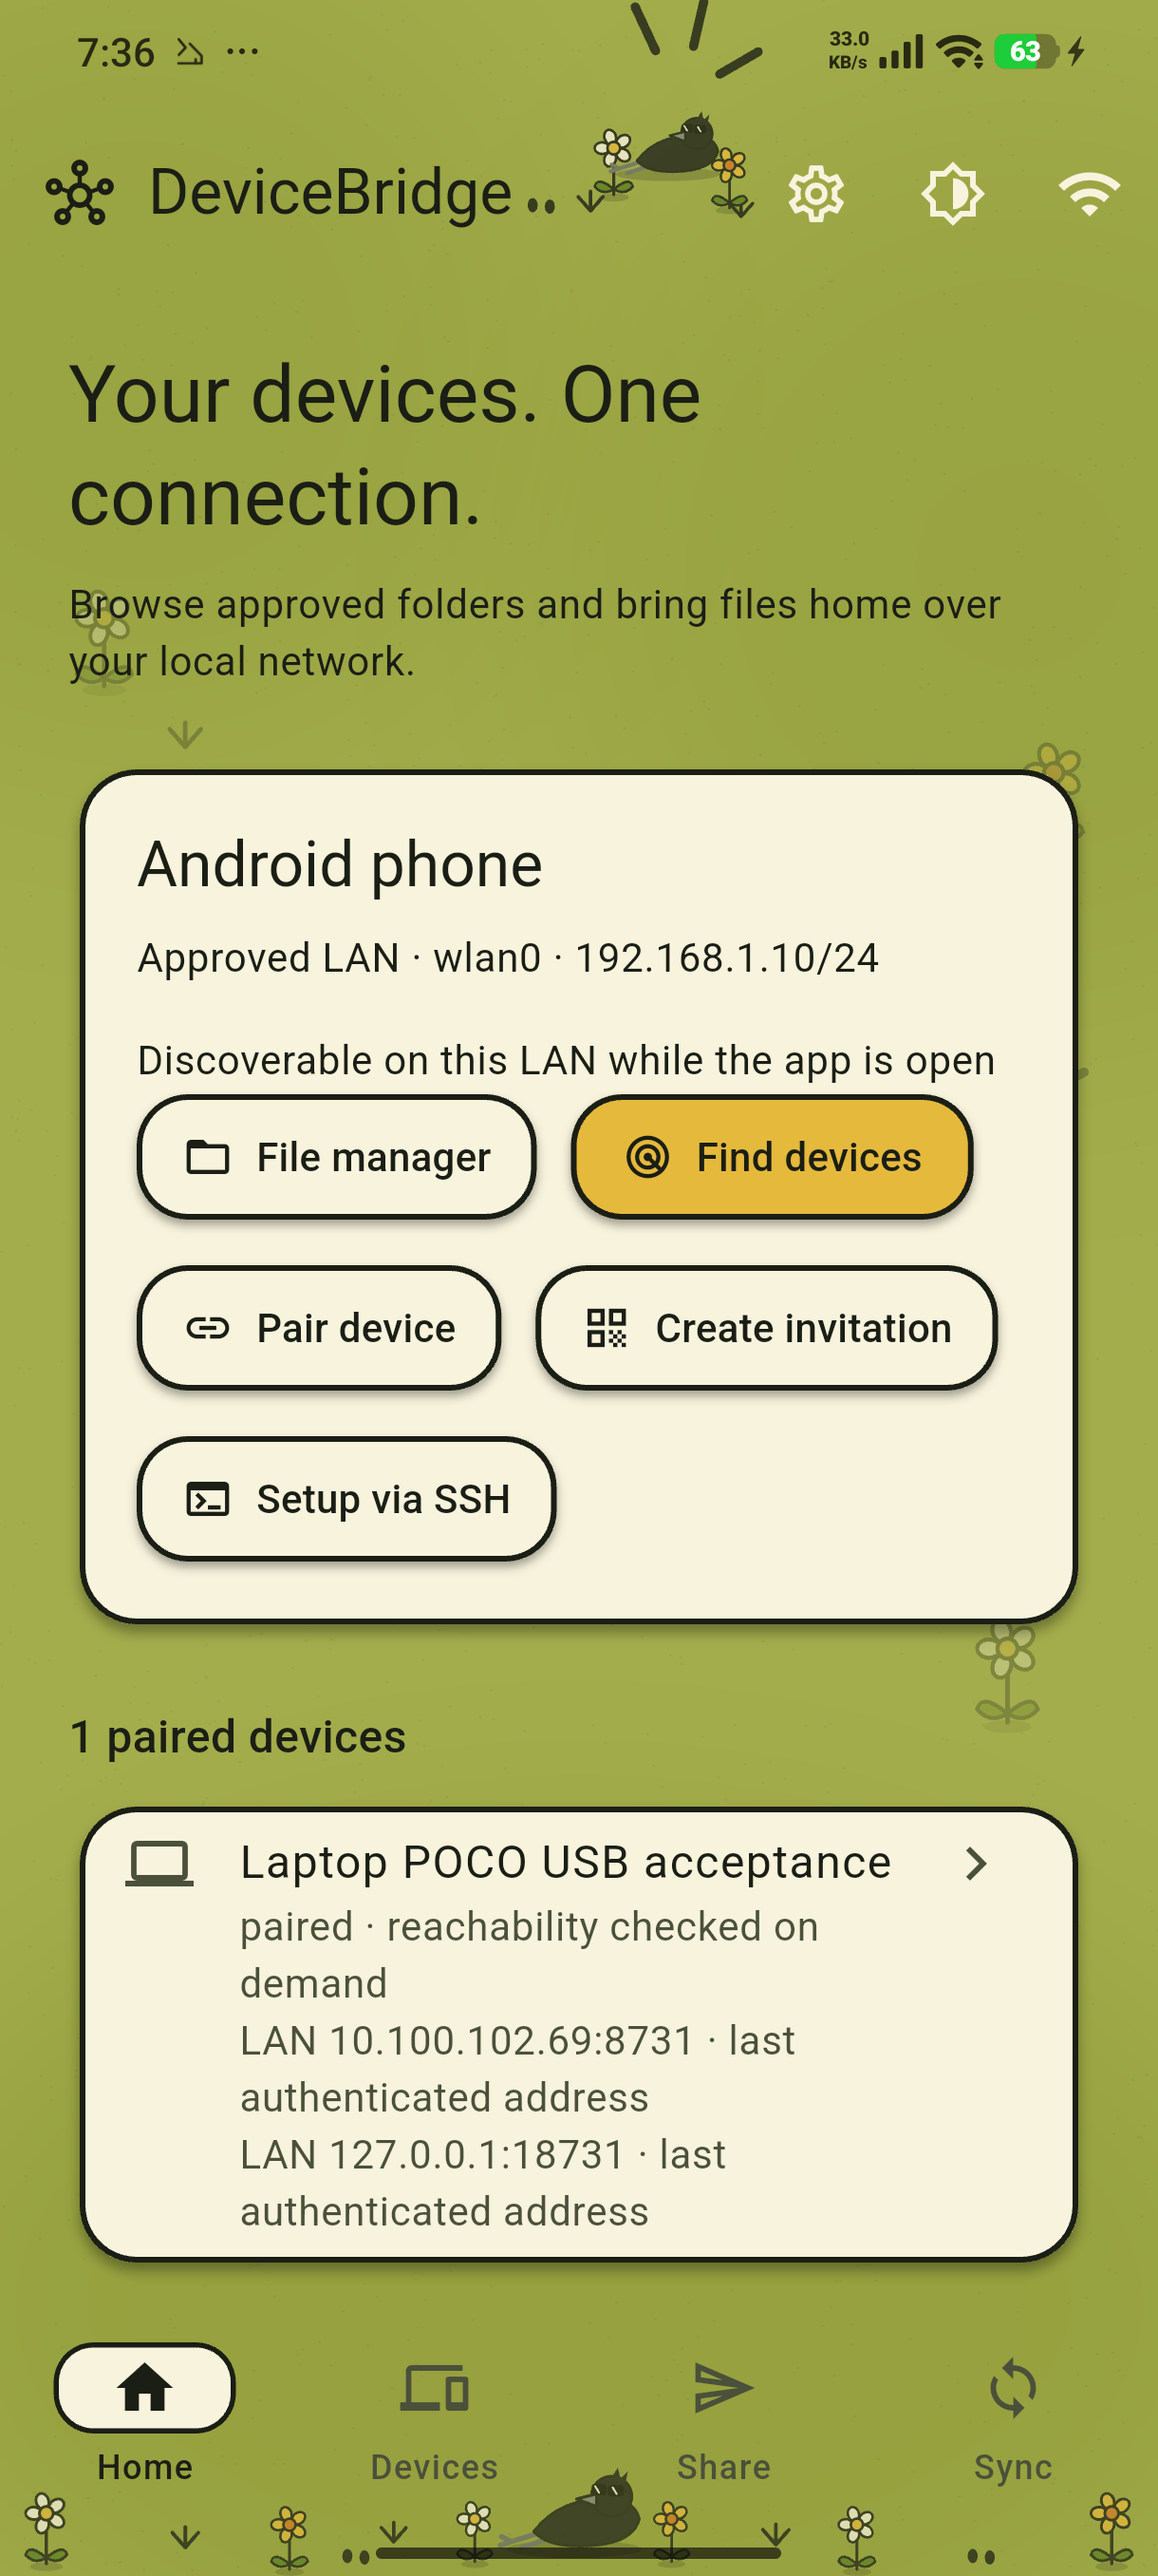
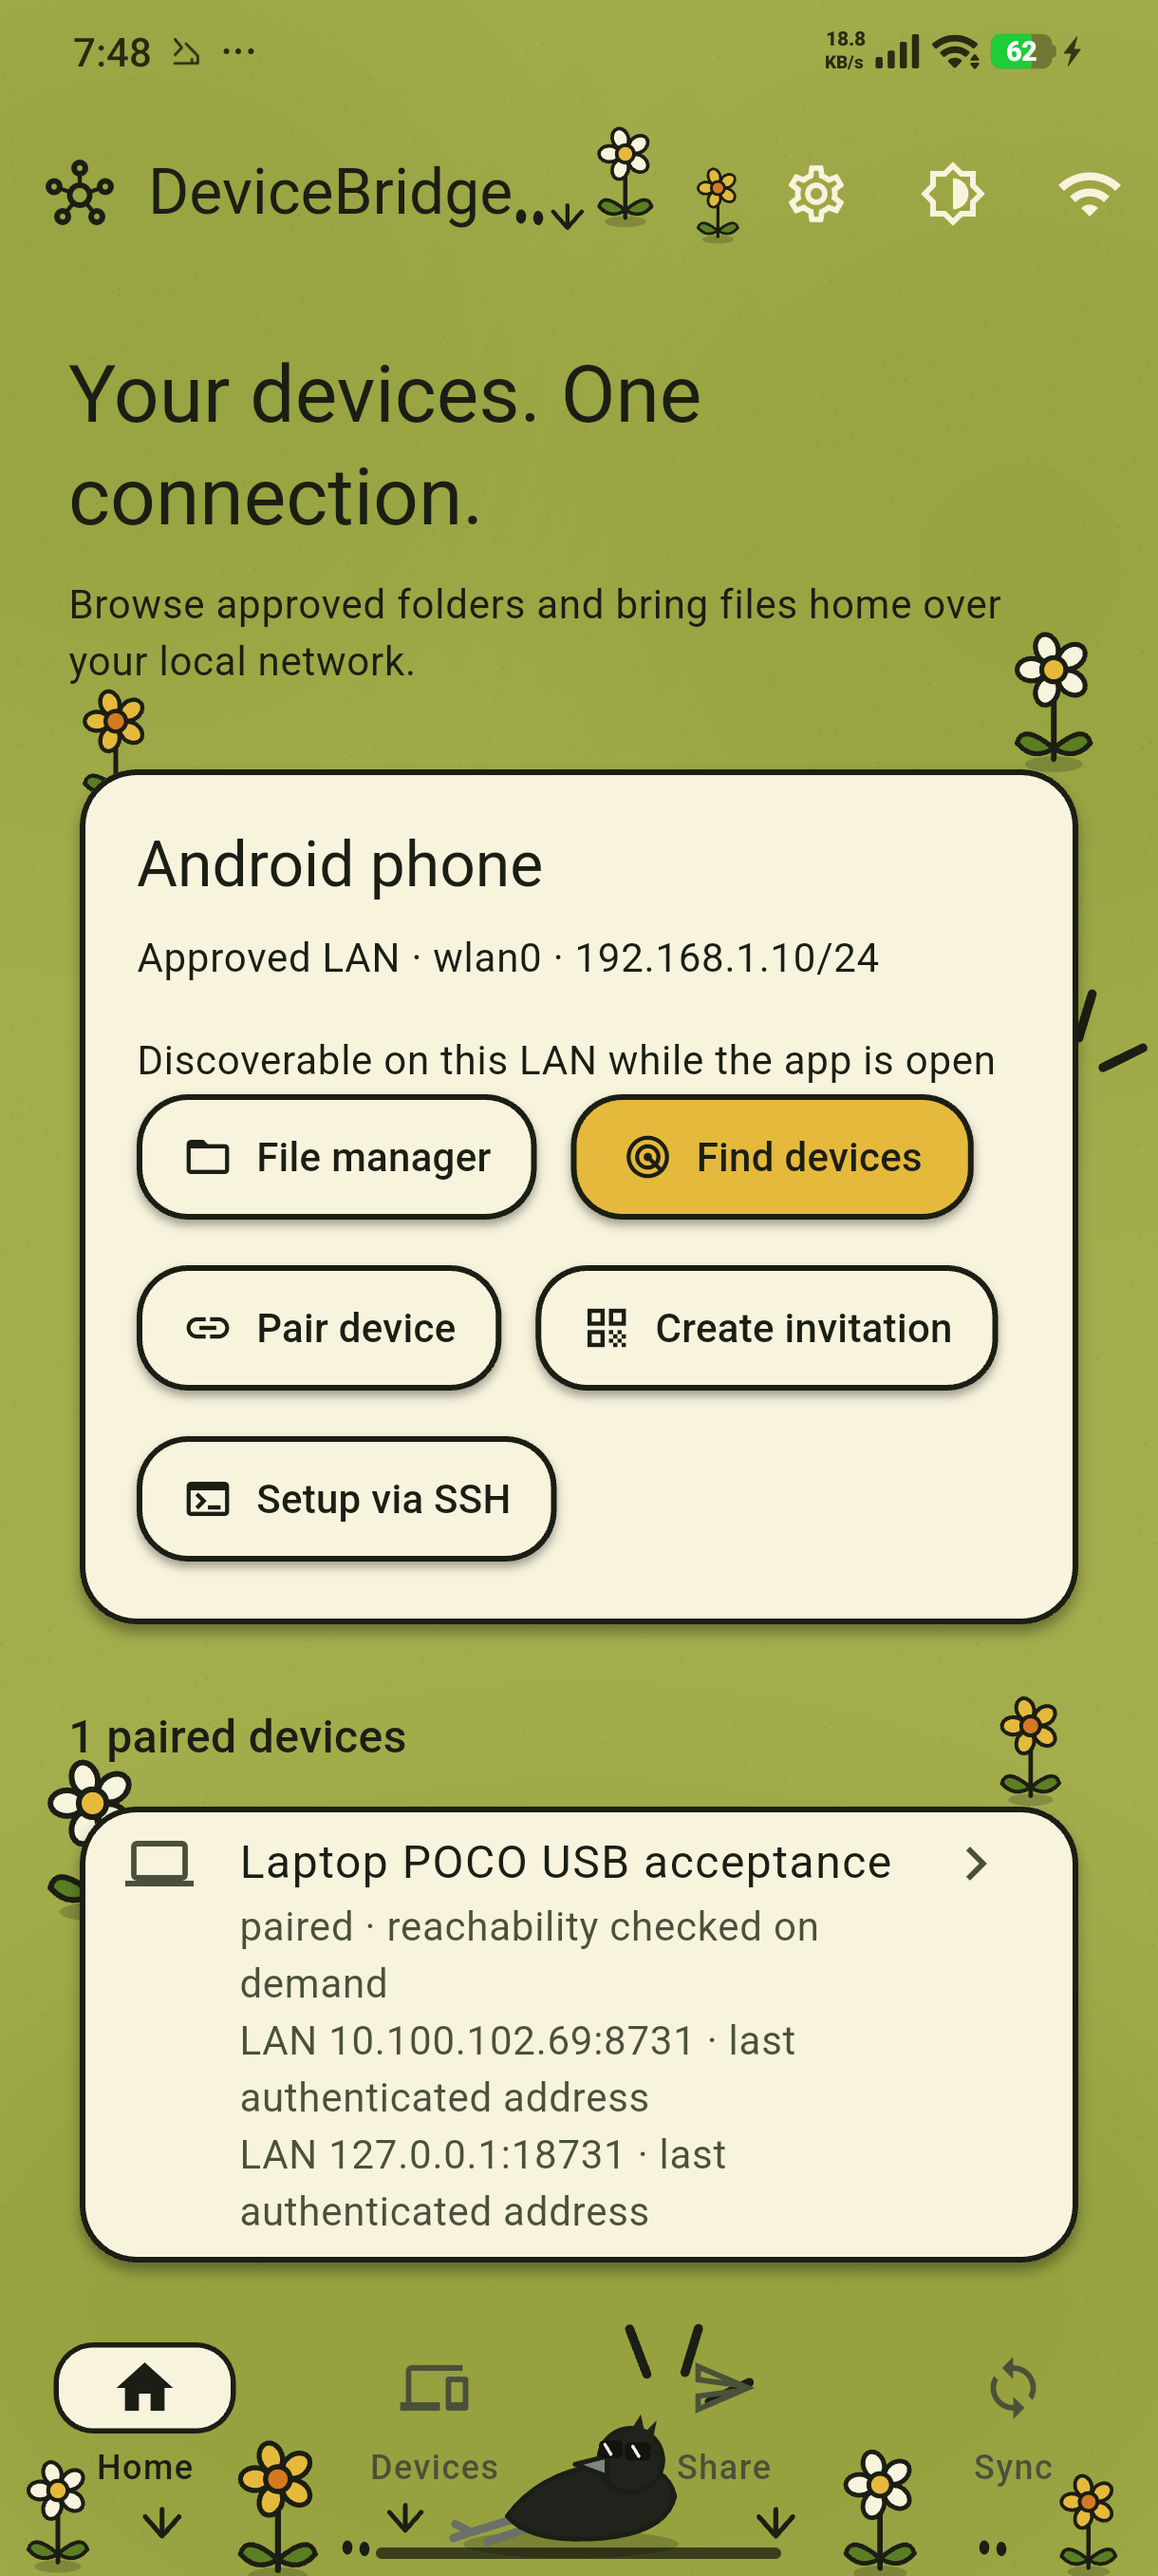
style(matte): unwashed varied-size flowers and natural bird placement across all screens

diff --git a/app/lib/features/appearance.dart b/app/lib/features/appearance.dart
@@ -344,137 +344,95 @@ class _MattePaperArt extends CustomPainter {
       canvas.drawLine(Offset(x, y), Offset(x + 0.9, y + 0.15), grain);
     }
 
-    // Soft botanicals & peeking bird behind scrollable lists/cards so
-    // foreground ink text stays crisp and legible on every screen.
-    canvas.saveLayer(
-      Offset.zero & size,
-      Paint()..color = const Color(0x46ffffff),
-    );
-    _drawGrassTuft(canvas, Offset(size.width * 0.16, size.height * 0.29), 0.78);
-    _drawGrassTuft(canvas, Offset(size.width * 0.84, size.height * 0.36), 0.76);
-    _drawGrassTuft(canvas, Offset(size.width * 0.22, size.height * 0.62), 0.80);
-    _drawGrassTuft(canvas, Offset(size.width * 0.76, size.height * 0.75), 0.82);
-    _drawDots(canvas, Offset(size.width * 0.88, size.height * 0.56));
-    _drawDots(canvas, Offset(size.width * 0.12, size.height * 0.73));
+    // Crisp, unwashed botanicals with varied sizes behind scrollable lists/cards.
+    _drawGrassTuft(canvas, Offset(size.width * 0.14, size.height * 0.35), 0.95);
+    _drawGrassTuft(canvas, Offset(size.width * 0.85, size.height * 0.34), 0.85);
+    _drawGrassTuft(canvas, Offset(size.width * 0.16, size.height * 0.76), 1.0);
+    _drawGrassTuft(canvas, Offset(size.width * 0.82, size.height * 0.73), 0.9);
+    _drawDots(canvas, Offset(size.width * 0.90, size.height * 0.58));
+    _drawDots(canvas, Offset(size.width * 0.10, size.height * 0.57));
 
     _drawFlower(
       canvas,
-      Offset(size.width * 0.09, size.height * 0.24),
-      _MatteMeadowArt.cream,
-      0.70,
+      Offset(size.width * 0.10, size.height * 0.28),
+      _MatteMeadowArt.gold,
+      0.78,
     );
     _drawFlower(
       canvas,
-      Offset(size.width * 0.91, size.height * 0.30),
+      Offset(size.width * 0.91, size.height * 0.26),
+      _MatteMeadowArt.cream,
+      0.92,
+    );
+    _drawFlower(
+      canvas,
+      Offset(size.width * 0.08, size.height * 0.70),
+      _MatteMeadowArt.cream,
+      1.06,
+    );
+    _drawFlower(
+      canvas,
+      Offset(size.width * 0.89, size.height * 0.67),
       _MatteMeadowArt.gold,
+      0.72,
+    );
+    _drawComicRays(canvas, Offset(size.width * 0.92, size.height * 0.42), 0.42);
+    _drawCoolCrow(
+      canvas,
+      Offset(size.width * 0.84, size.height * 0.49),
+      0.74,
+    );
+
+    // Topbar flowers tucked cleanly in the open header band (no bird here).
+    _drawGrassTuft(canvas, Offset(size.width * 0.49, 80), 0.72);
+    _drawDots(canvas, Offset(size.width * 0.45, 76));
+    _drawFlower(
+      canvas,
+      Offset(size.width * 0.54, 54),
+      _MatteMeadowArt.cream,
+      0.66,
+    );
+    _drawFlower(
+      canvas,
+      Offset(size.width * 0.62, 66),
+      _MatteMeadowArt.gold,
+      0.50,
+    );
+
+    // Bottombar meadow strip with varied flowers and a single full-sized bird.
+    final bottomGround = size.height - 8;
+    _drawGrassTuft(canvas, Offset(size.width * 0.14, bottomGround - 6), 0.85);
+    _drawGrassTuft(canvas, Offset(size.width * 0.35, bottomGround - 8), 0.80);
+    _drawGrassTuft(canvas, Offset(size.width * 0.67, bottomGround - 6), 0.85);
+    _drawDots(canvas, Offset(size.width * 0.30, bottomGround - 2));
+    _drawDots(canvas, Offset(size.width * 0.85, bottomGround - 2));
+
+    _drawFlower(
+      canvas,
+      Offset(size.width * 0.05, bottomGround - 22),
+      _MatteMeadowArt.cream,
       0.74,
     );
     _drawFlower(
       canvas,
-      Offset(size.width * 0.13, size.height * 0.52),
+      Offset(size.width * 0.24, bottomGround - 26),
+      _MatteMeadowArt.gold,
+      0.94,
+    );
+    _drawFlower(
+      canvas,
+      Offset(size.width * 0.76, bottomGround - 24),
+      _MatteMeadowArt.cream,
+      0.86,
+    );
+    _drawFlower(
+      canvas,
+      Offset(size.width * 0.94, bottomGround - 18),
       _MatteMeadowArt.gold,
       0.68,
     );
-    _drawFlower(
-      canvas,
-      Offset(size.width * 0.87, size.height * 0.64),
-      _MatteMeadowArt.cream,
-      0.76,
-    );
-    _drawFlower(
-      canvas,
-      Offset(size.width * 0.24, size.height * 0.76),
-      _MatteMeadowArt.cream,
-      0.64,
-    );
-    _drawFlower(
-      canvas,
-      Offset(size.width * 0.73, size.height * 0.43),
-      _MatteMeadowArt.gold,
-      0.60,
-    );
-    _drawComicRays(canvas, Offset(size.width * 0.87, size.height * 0.43), 0.4);
-    _drawCoolCrow(
-      canvas,
-      Offset(size.width * 0.79, size.height * 0.49),
-      0.54,
-    );
-    canvas.restore();
-
-    // Topbar meadow accents tucked into the open header space between title & actions.
-    canvas.saveLayer(
-      Rect.fromLTWH(0, 0, size.width, 120),
-      Paint()..color = const Color(0xc8ffffff),
-    );
-    _drawGrassTuft(canvas, Offset(size.width * 0.51, 74), 0.62);
-    _drawGrassTuft(canvas, Offset(size.width * 0.64, 76), 0.58);
-    _drawDots(canvas, Offset(size.width * 0.46, 72));
-    _drawFlower(
-      canvas,
-      Offset(size.width * 0.53, 52),
-      _MatteMeadowArt.cream,
-      0.48,
-    );
-    _drawFlower(
-      canvas,
-      Offset(size.width * 0.63, 58),
-      _MatteMeadowArt.gold,
-      0.44,
-    );
-    _drawComicRays(canvas, Offset(size.width * 0.59, 32), 0.35);
-    _drawCoolCrow(canvas, Offset(size.width * 0.58, 53), 0.34);
-    canvas.restore();
-
-    // Bottombar meadow strip along the lower margin & between nav destinations.
-    final bottomGround = size.height - 6;
-    canvas.saveLayer(
-      Rect.fromLTWH(0, size.height - 96, size.width, 96),
-      Paint()..color = const Color(0xb8ffffff),
-    );
-    _drawGrassTuft(canvas, Offset(size.width * 0.16, bottomGround - 4), 0.65);
-    _drawGrassTuft(canvas, Offset(size.width * 0.34, bottomGround - 6), 0.62);
-    _drawGrassTuft(canvas, Offset(size.width * 0.67, bottomGround - 5), 0.65);
-    _drawDots(canvas, Offset(size.width * 0.30, bottomGround - 1));
-    _drawDots(canvas, Offset(size.width * 0.84, bottomGround - 1));
-
-    _drawFlower(
-      canvas,
-      Offset(size.width * 0.04, bottomGround - 16),
-      _MatteMeadowArt.cream,
-      0.52,
-    );
-    _drawFlower(
-      canvas,
-      Offset(size.width * 0.25, bottomGround - 12),
-      _MatteMeadowArt.gold,
-      0.46,
-    );
-    _drawFlower(
-      canvas,
-      Offset(size.width * 0.41, bottomGround - 14),
-      _MatteMeadowArt.cream,
-      0.44,
-    );
-    _drawFlower(
-      canvas,
-      Offset(size.width * 0.58, bottomGround - 14),
-      _MatteMeadowArt.gold,
-      0.44,
-    );
-    _drawFlower(
-      canvas,
-      Offset(size.width * 0.74, bottomGround - 12),
-      _MatteMeadowArt.cream,
-      0.46,
-    );
-    _drawFlower(
-      canvas,
-      Offset(size.width * 0.96, bottomGround - 16),
-      _MatteMeadowArt.gold,
-      0.52,
-    );
-    _drawCoolCrow(canvas, Offset(size.width * 0.50, bottomGround - 14), 0.44);
-    canvas.restore();
+    _drawComicRays(canvas, Offset(size.width * 0.58, bottomGround - 48), 0.42);
+    _drawCoolCrow(canvas, Offset(size.width * 0.50, bottomGround - 20), 0.70);
   }
 
   @override
@@ -494,39 +452,36 @@ class _MatteMeadowPainter extends CustomPainter {
   @override
   void paint(Canvas canvas, Size size) {
     final groundY = size.height - 16;
-    _drawGrassTuft(canvas, Offset(size.width * 0.23, groundY - 12), 1.0);
-    _drawGrassTuft(canvas, Offset(size.width * 0.39, groundY - 26), 0.85);
-    _drawGrassTuft(canvas, Offset(size.width * 0.75, groundY - 16), 0.9);
-    _drawDots(canvas, Offset(size.width * 0.15, groundY - 4));
+    _drawGrassTuft(canvas, Offset(size.width * 0.28, groundY - 10), 1.0);
+    _drawGrassTuft(canvas, Offset(size.width * 0.52, groundY - 18), 0.9);
+    _drawGrassTuft(canvas, Offset(size.width * 0.72, groundY - 14), 0.95);
+    _drawDots(canvas, Offset(size.width * 0.16, groundY - 4));
     _drawDots(canvas, Offset(size.width * 0.84, groundY - 2));
 
     _drawFlower(
       canvas,
-      Offset(size.width * 0.08, groundY - 40),
+      Offset(size.width * 0.09, groundY - 42),
       _MatteMeadowArt.cream,
-      1.0,
+      1.08,
     );
     _drawFlower(
       canvas,
-      Offset(size.width * 0.17, groundY - 18),
+      Offset(size.width * 0.20, groundY - 20),
       _MatteMeadowArt.gold,
-      0.82,
+      0.80,
     );
     _drawFlower(
       canvas,
-      Offset(size.width * 0.80, groundY - 22),
+      Offset(size.width * 0.80, groundY - 24),
       _MatteMeadowArt.cream,
-      0.88,
+      0.92,
     );
     _drawFlower(
       canvas,
-      Offset(size.width * 0.91, groundY - 38),
+      Offset(size.width * 0.91, groundY - 40),
       _MatteMeadowArt.gold,
-      1.02,
+      1.04,
     );
-
-    _drawComicRays(canvas, Offset(size.width * 0.67, groundY - 58), 0.45);
-    _drawCoolCrow(canvas, Offset(size.width * 0.53, groundY - 22), 0.76);
   }
 
   @override

diff --git a/prgress.md b/prgress.md
@@ -8,7 +8,7 @@
   - Termux Home SAF grant selected via `Termux:Launcher` (`com.termux.documents` -> `home`).
   - Local file manager verified on POCO: live text preview refresh (`LIVE version one` -> `LIVE version two`), `New folder` (`local-move-target`), Move with `excluded-cache` exclusion (`keep.txt` `a4c145116346834c` + `space λ.txt` `4d9e135688bb875a` moved, `excluded-cache/large.tmp` `dfc21015d1daf3fc` kept on source), no-overwrite denial (`Destination already exists; overwrite denied`), and return copy to `Termux Home` (`docs/test-evidence/poco-local-file-manager.json`).
   - Remote SAF & Termux Home serving verified over Wi-Fi LAN (`192.168.1.10` ↔ `192.168.1.23`): `roots`, `saf` 3-file pull (8,388,652 B, `manifest_xxh64` `98250f3829e05885`), `termux_home` Unicode listing (`space λ.txt`), remote `preview`, pull (`a4c145116346834c`, `4d9e135688bb875a`), and exclusion pull (`live.txt` only, `02e798559588a8b1`) in `docs/test-evidence/poco-remote-documents-serving.json`. Temporary `Laptop docs check` peer revoked and removed from phone afterward.
-  - Matte paper theme updated (`app/lib/features/appearance.dart`) with flowers & bird across topbar, bottombar, and behind lists on all screens (Home, Connections, Settings, File manager, Termux tools); visually verified on installed release APK (`docs/test-evidence/poco-matte-{home,connections,settings,file-manager}.png`).
-  - Broad verification & builds: native Termux `go test ./...` + `go vet ./...` + `bridge-agent`/`bridge-cli` (`9010261b5cd165bd`, `072c56c7b71c075f`), Linux `gofmt` + `go vet` + `go test -race ./...`, `flutter analyze` (0 issues), `flutter test` (9/9 pass), `apksigner verify` PASS, `devicebridge.apk` (27,370,068 B, XXH64 `e0cff56a625eb0e9`) installed & target-verified on POCO (`Installed target xxhsum PASS: e0cff56a625eb0e9`).
+  - Matte paper theme updated (`app/lib/features/appearance.dart`) with unwashed, full-color flowers of varied sizes and two naturally sized birds (none in topbar, one behind lists on the right, one in the bottombar meadow) across all transparent screens; visually verified on installed release APK (`docs/test-evidence/poco-matte-{home,connections,settings,file-manager}.png`).
+  - Broad verification & builds: native Termux `go test ./...` + `go vet ./...` + `bridge-agent`/`bridge-cli` (`9010261b5cd165bd`, `072c56c7b71c075f`), Linux `gofmt` + `go vet` + `go test -race ./...`, `flutter analyze` (0 issues), `flutter test` (9/9 pass), `apksigner verify` PASS, `devicebridge.apk` (27,369,424 B, XXH64 `81c0eb9ed35cea21`) installed & target-verified on POCO (`Installed target xxhsum PASS: 81c0eb9ed35cea21`).
 - **Remaining**: remote uploads/deletes (awaiting write-grant contract), M3–M8, hotspot/Wi-Fi Direct physical link-switch E2E.
 - **Cleanup**: removed temporary `Laptop docs check` peer, removed ADB forward `tcp:18022` (at closeout), no stray laptop agents or UFW rules left active.

diff --git a/docs/IMPLEMENTATION_STATUS.md b/docs/IMPLEMENTATION_STATUS.md
@@ -59,8 +59,8 @@ The physical CLI folder command transferred 4,194,335 bytes in 4.098625 seconds 
 
 ## Artifacts and cleanup
 
-- Development-signed release APK: `artifacts/android-arm64/devicebridge.apk`, 27,370,068 bytes, XXH64 `e0cff56a625eb0e9` (`apksigner verify` PASS; includes `libbridge_cli.so` XXH64 `e4d1ebc17ba2f854`, `libbridge_agent.so`, `libbridge_tailnet.so` XXH64 `6cece180735567de`, and `libbridge_wg.so` XXH64 `820af0a47fb791a3`). Installed (`Installed target xxhsum PASS: e0cff56a625eb0e9`) and visually verified on physical POCO `JBKJF6JFAAIZUGP7` (`poco-matte-home.png`, `poco-matte-connections.png`, `poco-matte-settings.png`, `poco-matte-file-manager.png`, `poco-termux-run-command.png`). Debug APK: `artifacts/android-arm64/devicebridge-debug.apk` (94,031,737 bytes, XXH64 `f5454b537568dd6e`).
-- Linux GUI bundle: `app/build/linux/x64/release/bundle/`; packaged archive: `artifacts/linux/devicebridge-linux-x64.tar.gz` (30,027,685 bytes, XXH64 `c2fed980e74deca7`); Linux (`bridge-agent` `34ecb96071fa8590`, `bridge-cli` `8894517f0cd55d61`) and Termux (`bridge-agent` `9010261b5cd165bd`, `bridge-cli` `072c56c7b71c075f`) Go binaries. `artifacts/MANIFEST.json` and `docs/test-evidence/artifact-manifest.json` record XXH64 hashes.
+- Development-signed release APK: `artifacts/android-arm64/devicebridge.apk`, 27,369,424 bytes, XXH64 `81c0eb9ed35cea21` (`apksigner verify` PASS; includes `libbridge_cli.so` XXH64 `4af4d885660d1c0b`, `libbridge_agent.so`, `libbridge_tailnet.so` XXH64 `686c8750c0942901`, and `libbridge_wg.so` XXH64 `73eec00d55a68940`). Installed (`Installed target xxhsum PASS: 81c0eb9ed35cea21`) and visually verified on physical POCO `JBKJF6JFAAIZUGP7` (`poco-matte-home.png`, `poco-matte-connections.png`, `poco-matte-settings.png`, `poco-matte-file-manager.png`). Debug APK: `artifacts/android-arm64/devicebridge-debug.apk` (94,030,564 bytes, XXH64 `d94c2b0416ead249`).
+- Linux GUI bundle: `app/build/linux/x64/release/bundle/`; packaged archive: `artifacts/linux/devicebridge-linux-x64.tar.gz` (30,026,412 bytes, XXH64 `2ec92a43ab866170`); Linux (`bridge-agent` `7ec32a0f776b6ccb`, `bridge-cli` `cd367186e7e6edbc`) and Termux (`bridge-agent` `9010261b5cd165bd`, `bridge-cli` `072c56c7b71c075f`) Go binaries. `artifacts/MANIFEST.json` and `docs/test-evidence/artifact-manifest.json` record XXH64 hashes.
 - All experiment-owned laptop agents stopped. All temporary wlan0 TCP8731 rules (phone10.100.102.33 → laptop10.100.102.69 only) were deleted after baseline tests; no UFW rules were added in this session. No persistent device service was installed.
 - SAF retained only the test folder `DeviceBridge-Test-20261118T064118Z` with verified sample copies. Owned temporary UI XML is removed. Private test identities/state remain in ignored `.work/` and disposable phone snapshots for reproducibility.
 
